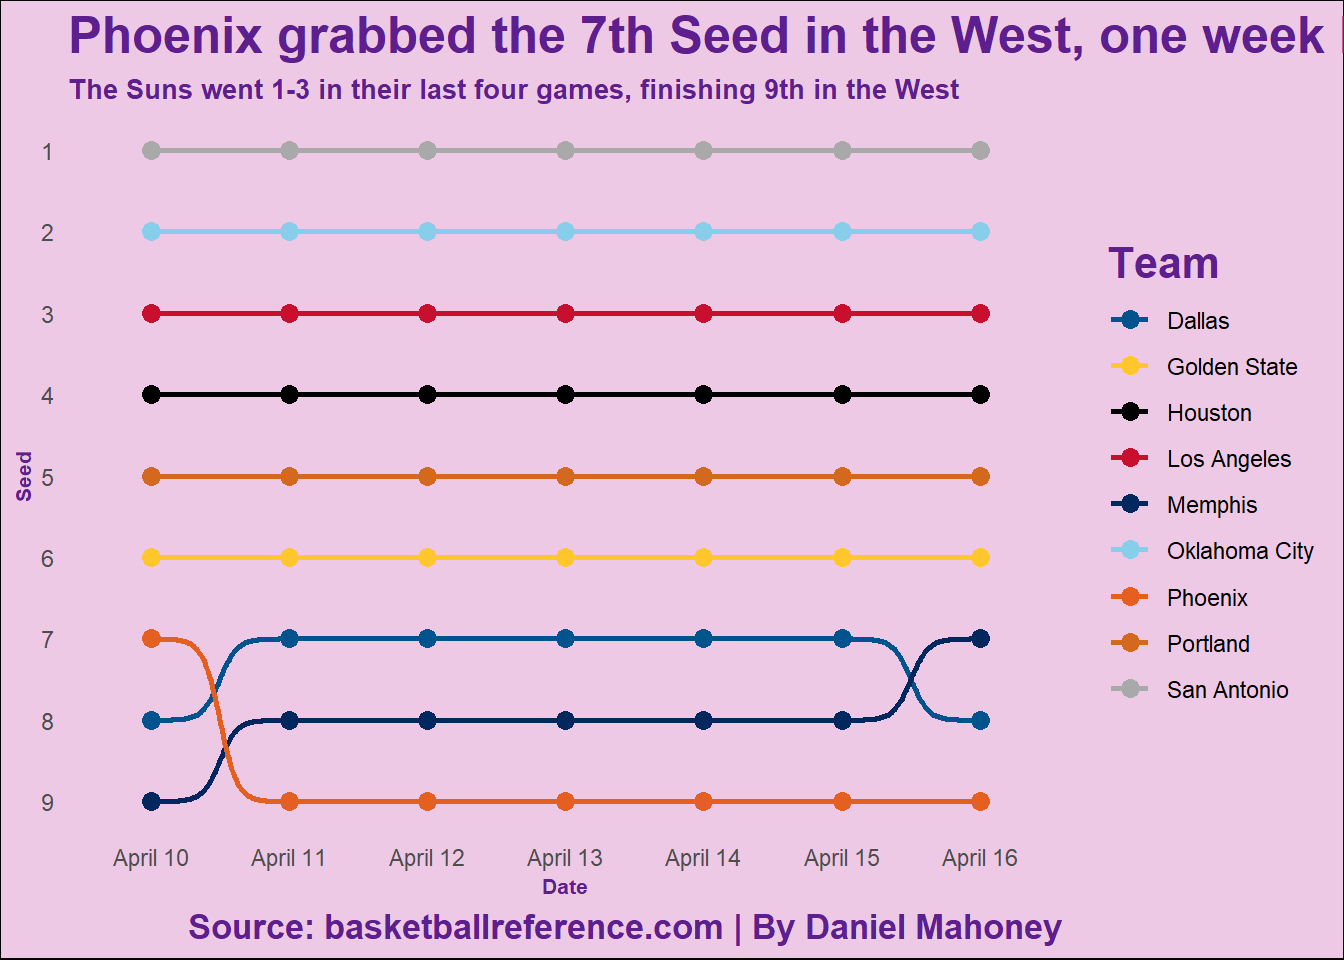
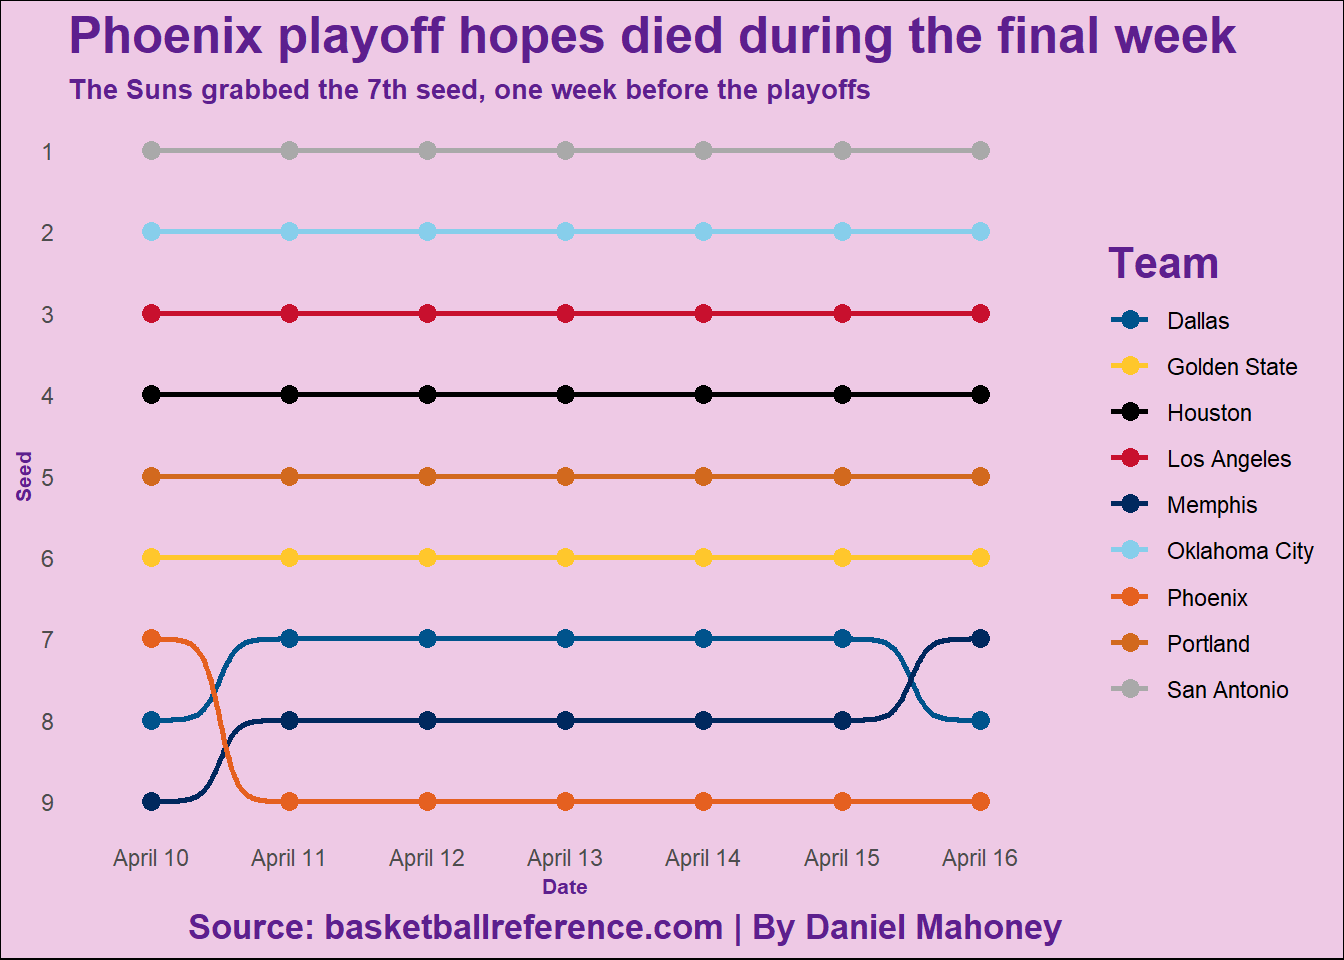
update index.html

Changed region(s): [[0.1562, 0.0, 1.0, 0.125]]

diff --git a/posts/Phoenix-Suns-2013-2014/index.html b/posts/Phoenix-Suns-2013-2014/index.html
@@ -287,23 +287,23 @@ pre > code.sourceCode > span > a:first-child::before { text-decoration: underlin
 <span id="cb1-84"><a href="#cb1-84" aria-hidden="true" tabindex="-1"></a>  )</span></code><button title="Copy to Clipboard" class="code-copy-button"><i class="bi"></i></button></pre></div>
 </details>
 <div class="cell-output-display">
-<div id="rmfncjjkny" style="padding-left:0px;padding-right:0px;padding-top:10px;padding-bottom:10px;overflow-x:auto;overflow-y:auto;width:auto;height:auto;">
-<style>#rmfncjjkny table {
+<div id="xpsdorihgv" style="padding-left:0px;padding-right:0px;padding-top:10px;padding-bottom:10px;overflow-x:auto;overflow-y:auto;width:auto;height:auto;">
+<style>#xpsdorihgv table {
   font-family: system-ui, 'Segoe UI', Roboto, Helvetica, Arial, sans-serif, 'Apple Color Emoji', 'Segoe UI Emoji', 'Segoe UI Symbol', 'Noto Color Emoji';
   -webkit-font-smoothing: antialiased;
   -moz-osx-font-smoothing: grayscale;
 }
 
-#rmfncjjkny thead, #rmfncjjkny tbody, #rmfncjjkny tfoot, #rmfncjjkny tr, #rmfncjjkny td, #rmfncjjkny th {
+#xpsdorihgv thead, #xpsdorihgv tbody, #xpsdorihgv tfoot, #xpsdorihgv tr, #xpsdorihgv td, #xpsdorihgv th {
   border-style: none;
 }
 
-#rmfncjjkny p {
+#xpsdorihgv p {
   margin: 0;
   padding: 0;
 }
 
-#rmfncjjkny .gt_table {
+#xpsdorihgv .gt_table {
   display: table;
   border-collapse: collapse;
   line-height: normal;
@@ -329,12 +329,12 @@ pre > code.sourceCode > span > a:first-child::before { text-decoration: underlin
   border-left-color: #D3D3D3;
 }
 
-#rmfncjjkny .gt_caption {
+#xpsdorihgv .gt_caption {
   padding-top: 4px;
   padding-bottom: 4px;
 }
 
-#rmfncjjkny .gt_title {
+#xpsdorihgv .gt_title {
   color: #333333;
   font-size: 125%;
   font-weight: initial;
@@ -346,7 +346,7 @@ pre > code.sourceCode > span > a:first-child::before { text-decoration: underlin
   border-bottom-width: 0;
 }
 
-#rmfncjjkny .gt_subtitle {
+#xpsdorihgv .gt_subtitle {
   color: #333333;
   font-size: 85%;
   font-weight: initial;
@@ -358,7 +358,7 @@ pre > code.sourceCode > span > a:first-child::before { text-decoration: underlin
   border-top-width: 0;
 }
 
-#rmfncjjkny .gt_heading {
+#xpsdorihgv .gt_heading {
   background-color: #FFFFFF;
   text-align: center;
   border-bottom-color: #FFFFFF;
@@ -370,13 +370,13 @@ pre > code.sourceCode > span > a:first-child::before { text-decoration: underlin
   border-right-color: #D3D3D3;
 }
 
-#rmfncjjkny .gt_bottom_border {
+#xpsdorihgv .gt_bottom_border {
   border-bottom-style: none;
   border-bottom-width: 2px;
   border-bottom-color: #D3D3D3;
 }
 
-#rmfncjjkny .gt_col_headings {
+#xpsdorihgv .gt_col_headings {
   border-top-style: none;
   border-top-width: 2px;
   border-top-color: #D3D3D3;
@@ -391,7 +391,7 @@ pre > code.sourceCode > span > a:first-child::before { text-decoration: underlin
   border-right-color: #D3D3D3;
 }
 
-#rmfncjjkny .gt_col_heading {
+#xpsdorihgv .gt_col_heading {
   color: #333333;
   background-color: #FFFFFF;
   font-size: 100%;
@@ -411,7 +411,7 @@ pre > code.sourceCode > span > a:first-child::before { text-decoration: underlin
   overflow-x: hidden;
 }
 
-#rmfncjjkny .gt_column_spanner_outer {
+#xpsdorihgv .gt_column_spanner_outer {
   color: #333333;
   background-color: #FFFFFF;
   font-size: 100%;
@@ -423,15 +423,15 @@ pre > code.sourceCode > span > a:first-child::before { text-decoration: underlin
   padding-right: 4px;
 }
 
-#rmfncjjkny .gt_column_spanner_outer:first-child {
+#xpsdorihgv .gt_column_spanner_outer:first-child {
   padding-left: 0;
 }
 
-#rmfncjjkny .gt_column_spanner_outer:last-child {
+#xpsdorihgv .gt_column_spanner_outer:last-child {
   padding-right: 0;
 }
 
-#rmfncjjkny .gt_column_spanner {
+#xpsdorihgv .gt_column_spanner {
   border-bottom-style: none;
   border-bottom-width: 2px;
   border-bottom-color: #D3D3D3;
@@ -443,11 +443,11 @@ pre > code.sourceCode > span > a:first-child::before { text-decoration: underlin
   width: 100%;
 }
 
-#rmfncjjkny .gt_spanner_row {
+#xpsdorihgv .gt_spanner_row {
   border-bottom-style: hidden;
 }
 
-#rmfncjjkny .gt_group_heading {
+#xpsdorihgv .gt_group_heading {
   padding-top: 8px;
   padding-bottom: 8px;
   padding-left: 5px;
@@ -473,7 +473,7 @@ pre > code.sourceCode > span > a:first-child::before { text-decoration: underlin
   text-align: left;
 }
 
-#rmfncjjkny .gt_empty_group_heading {
+#xpsdorihgv .gt_empty_group_heading {
   padding: 0.5px;
   color: #333333;
   background-color: #FFFFFF;
@@ -488,15 +488,15 @@ pre > code.sourceCode > span > a:first-child::before { text-decoration: underlin
   vertical-align: middle;
 }
 
-#rmfncjjkny .gt_from_md > :first-child {
+#xpsdorihgv .gt_from_md > :first-child {
   margin-top: 0;
 }
 
-#rmfncjjkny .gt_from_md > :last-child {
+#xpsdorihgv .gt_from_md > :last-child {
   margin-bottom: 0;
 }
 
-#rmfncjjkny .gt_row {
+#xpsdorihgv .gt_row {
   padding-top: 8px;
   padding-bottom: 8px;
   padding-left: 5px;
@@ -515,7 +515,7 @@ pre > code.sourceCode > span > a:first-child::before { text-decoration: underlin
   overflow-x: hidden;
 }
 
-#rmfncjjkny .gt_stub {
+#xpsdorihgv .gt_stub {
   color: #333333;
   background-color: #FFFFFF;
   font-size: 100%;
@@ -528,7 +528,7 @@ pre > code.sourceCode > span > a:first-child::before { text-decoration: underlin
   padding-right: 5px;
 }
 
-#rmfncjjkny .gt_stub_row_group {
+#xpsdorihgv .gt_stub_row_group {
   color: #333333;
   background-color: #FFFFFF;
   font-size: 100%;
@@ -542,15 +542,15 @@ pre > code.sourceCode > span > a:first-child::before { text-decoration: underlin
   vertical-align: top;
 }
 
-#rmfncjjkny .gt_row_group_first td {
+#xpsdorihgv .gt_row_group_first td {
   border-top-width: 2px;
 }
 
-#rmfncjjkny .gt_row_group_first th {
+#xpsdorihgv .gt_row_group_first th {
   border-top-width: 2px;
 }
 
-#rmfncjjkny .gt_summary_row {
+#xpsdorihgv .gt_summary_row {
   color: #333333;
   background-color: #FFFFFF;
   text-transform: inherit;
@@ -560,16 +560,16 @@ pre > code.sourceCode > span > a:first-child::before { text-decoration: underlin
   padding-right: 5px;
 }
 
-#rmfncjjkny .gt_first_summary_row {
+#xpsdorihgv .gt_first_summary_row {
   border-top-style: none;
   border-top-color: #D3D3D3;
 }
 
-#rmfncjjkny .gt_first_summary_row.thick {
+#xpsdorihgv .gt_first_summary_row.thick {
   border-top-width: 2px;
 }
 
-#rmfncjjkny .gt_last_summary_row {
+#xpsdorihgv .gt_last_summary_row {
   padding-top: 8px;
   padding-bottom: 8px;
   padding-left: 5px;
@@ -579,7 +579,7 @@ pre > code.sourceCode > span > a:first-child::before { text-decoration: underlin
   border-bottom-color: #D3D3D3;
 }
 
-#rmfncjjkny .gt_grand_summary_row {
+#xpsdorihgv .gt_grand_summary_row {
   color: #333333;
   background-color: #FFFFFF;
   text-transform: inherit;
@@ -589,7 +589,7 @@ pre > code.sourceCode > span > a:first-child::before { text-decoration: underlin
   padding-right: 5px;
 }
 
-#rmfncjjkny .gt_first_grand_summary_row {
+#xpsdorihgv .gt_first_grand_summary_row {
   padding-top: 8px;
   padding-bottom: 8px;
   padding-left: 5px;
@@ -599,7 +599,7 @@ pre > code.sourceCode > span > a:first-child::before { text-decoration: underlin
   border-top-color: #D3D3D3;
 }
 
-#rmfncjjkny .gt_last_grand_summary_row_top {
+#xpsdorihgv .gt_last_grand_summary_row_top {
   padding-top: 8px;
   padding-bottom: 8px;
   padding-left: 5px;
@@ -609,11 +609,11 @@ pre > code.sourceCode > span > a:first-child::before { text-decoration: underlin
   border-bottom-color: #D3D3D3;
 }
 
-#rmfncjjkny .gt_striped {
+#xpsdorihgv .gt_striped {
   background-color: rgba(128, 128, 128, 0.05);
 }
 
-#rmfncjjkny .gt_table_body {
+#xpsdorihgv .gt_table_body {
   border-top-style: none;
   border-top-width: 2px;
   border-top-color: #D3D3D3;
@@ -622,7 +622,7 @@ pre > code.sourceCode > span > a:first-child::before { text-decoration: underlin
   border-bottom-color: #D3D3D3;
 }
 
-#rmfncjjkny .gt_footnotes {
+#xpsdorihgv .gt_footnotes {
   color: #333333;
   background-color: #FFFFFF;
   border-bottom-style: none;
@@ -636,7 +636,7 @@ pre > code.sourceCode > span > a:first-child::before { text-decoration: underlin
   border-right-color: #D3D3D3;
 }
 
-#rmfncjjkny .gt_footnote {
+#xpsdorihgv .gt_footnote {
   margin: 0px;
   font-size: 90%;
   padding-top: 4px;
@@ -645,7 +645,7 @@ pre > code.sourceCode > span > a:first-child::before { text-decoration: underlin
   padding-right: 5px;
 }
 
-#rmfncjjkny .gt_sourcenotes {
+#xpsdorihgv .gt_sourcenotes {
   color: #333333;
   background-color: #FFFFFF;
   border-bottom-style: none;
@@ -659,7 +659,7 @@ pre > code.sourceCode > span > a:first-child::before { text-decoration: underlin
   border-right-color: #D3D3D3;
 }
 
-#rmfncjjkny .gt_sourcenote {
+#xpsdorihgv .gt_sourcenote {
   font-size: 90%;
   padding-top: 4px;
   padding-bottom: 4px;
@@ -667,72 +667,72 @@ pre > code.sourceCode > span > a:first-child::before { text-decoration: underlin
   padding-right: 5px;
 }
 
-#rmfncjjkny .gt_left {
+#xpsdorihgv .gt_left {
   text-align: left;
 }
 
-#rmfncjjkny .gt_center {
+#xpsdorihgv .gt_center {
   text-align: center;
 }
 
-#rmfncjjkny .gt_right {
+#xpsdorihgv .gt_right {
   text-align: right;
   font-variant-numeric: tabular-nums;
 }
 
-#rmfncjjkny .gt_font_normal {
+#xpsdorihgv .gt_font_normal {
   font-weight: normal;
 }
 
-#rmfncjjkny .gt_font_bold {
+#xpsdorihgv .gt_font_bold {
   font-weight: bold;
 }
 
-#rmfncjjkny .gt_font_italic {
+#xpsdorihgv .gt_font_italic {
   font-style: italic;
 }
 
-#rmfncjjkny .gt_super {
+#xpsdorihgv .gt_super {
   font-size: 65%;
 }
 
-#rmfncjjkny .gt_footnote_marks {
+#xpsdorihgv .gt_footnote_marks {
   font-size: 75%;
   vertical-align: 0.4em;
   position: initial;
 }
 
-#rmfncjjkny .gt_asterisk {
+#xpsdorihgv .gt_asterisk {
   font-size: 100%;
   vertical-align: 0;
 }
 
-#rmfncjjkny .gt_indent_1 {
+#xpsdorihgv .gt_indent_1 {
   text-indent: 5px;
 }
 
-#rmfncjjkny .gt_indent_2 {
+#xpsdorihgv .gt_indent_2 {
   text-indent: 10px;
 }
 
-#rmfncjjkny .gt_indent_3 {
+#xpsdorihgv .gt_indent_3 {
   text-indent: 15px;
 }
 
-#rmfncjjkny .gt_indent_4 {
+#xpsdorihgv .gt_indent_4 {
   text-indent: 20px;
 }
 
-#rmfncjjkny .gt_indent_5 {
+#xpsdorihgv .gt_indent_5 {
   text-indent: 25px;
 }
 
-#rmfncjjkny .katex-display {
+#xpsdorihgv .katex-display {
   display: inline-flex !important;
   margin-bottom: 0.75em !important;
 }
 
-#rmfncjjkny div.Reactable > div.rt-table > div.rt-thead > div.rt-tr.rt-tr-group-header > div.rt-th-group:after {
+#xpsdorihgv div.Reactable > div.rt-table > div.rt-thead > div.rt-tr.rt-tr-group-header > div.rt-th-group:after {
   height: 0px !important;
 }
 </style>
@@ -1139,8 +1139,8 @@ pre > code.sourceCode > span > a:first-child::before { text-decoration: underlin
 <span id="cb5-16"><a href="#cb5-16" aria-hidden="true" tabindex="-1"></a>  <span class="fu">scale_color_manual</span>(<span class="at">values =</span> team_color_map) <span class="sc">+</span>  </span>
 <span id="cb5-17"><a href="#cb5-17" aria-hidden="true" tabindex="-1"></a>  <span class="fu">scale_y_reverse</span>(<span class="at">breaks =</span> <span class="fu">c</span>(<span class="dv">1</span>, <span class="dv">2</span>, <span class="dv">3</span>, <span class="dv">4</span>, <span class="dv">5</span>, <span class="dv">6</span>, <span class="dv">7</span>, <span class="dv">8</span>, <span class="dv">9</span>)) <span class="sc">+</span>  </span>
 <span id="cb5-18"><a href="#cb5-18" aria-hidden="true" tabindex="-1"></a>  <span class="fu">labs</span>(</span>
-<span id="cb5-19"><a href="#cb5-19" aria-hidden="true" tabindex="-1"></a>    <span class="at">title =</span> <span class="st">"Phoenix grabbed the 7th Seed in the West, one week before the playoffs"</span>, </span>
-<span id="cb5-20"><a href="#cb5-20" aria-hidden="true" tabindex="-1"></a>    <span class="at">subtitle =</span> <span class="st">"The Suns went 1-3 in their last four games, finishing 9th in the West"</span>,</span>
+<span id="cb5-19"><a href="#cb5-19" aria-hidden="true" tabindex="-1"></a>    <span class="at">title =</span> <span class="st">"Phoenix playoff hopes died during the final week"</span>, </span>
+<span id="cb5-20"><a href="#cb5-20" aria-hidden="true" tabindex="-1"></a>    <span class="at">subtitle =</span> <span class="st">"The Suns grabbed the 7th seed, one week before the playoffs"</span>,</span>
 <span id="cb5-21"><a href="#cb5-21" aria-hidden="true" tabindex="-1"></a>    <span class="at">caption =</span> <span class="st">"Source: basketballreference.com | By Daniel Mahoney"</span>,</span>
 <span id="cb5-22"><a href="#cb5-22" aria-hidden="true" tabindex="-1"></a>    <span class="at">x =</span> <span class="st">"Date"</span>, </span>
 <span id="cb5-23"><a href="#cb5-23" aria-hidden="true" tabindex="-1"></a>    <span class="at">y =</span> <span class="st">"Seed"</span>, </span>

diff --git a/index.html b/index.html
@@ -205,7 +205,7 @@ window.Quarto = {
 
 <div class="quarto-listing quarto-listing-container-default" id="listing-listing">
 <div class="list quarto-listing-default">
-<div class="quarto-post image-right" data-index="0" data-categories="YmFza2V0YmFsbCxuYmEscGhvZW5peCxzdW5z" data-listing-date-sort="1731477600000" data-listing-file-modified-sort="1731815778998" data-listing-date-modified-sort="NaN" data-listing-reading-time-sort="16" data-listing-word-count-sort="3087">
+<div class="quarto-post image-right" data-index="0" data-categories="YmFza2V0YmFsbCxuYmEscGhvZW5peCxzdW5z" data-listing-date-sort="1731477600000" data-listing-file-modified-sort="1731816381533" data-listing-date-modified-sort="NaN" data-listing-reading-time-sort="16" data-listing-word-count-sort="3079">
 <div class="thumbnail">
 <p><a href="./posts/Phoenix-Suns-2013-2014/index.html" class="no-external"></a></p><a href="./posts/Phoenix-Suns-2013-2014/index.html" class="no-external">
 <p><img loading="lazy" src="./posts/Phoenix-Suns-2013-2014/image.png" class="thumbnail-image"></p>
